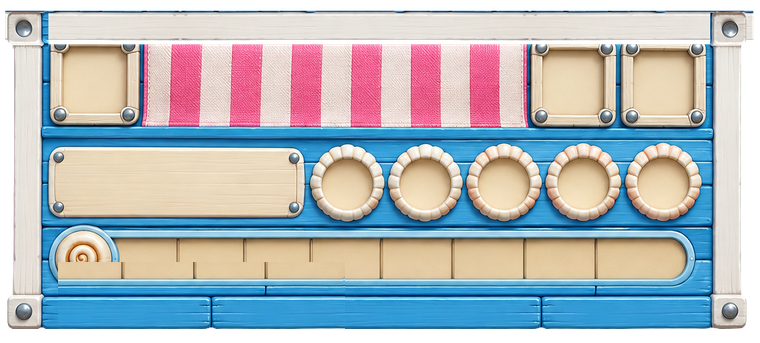
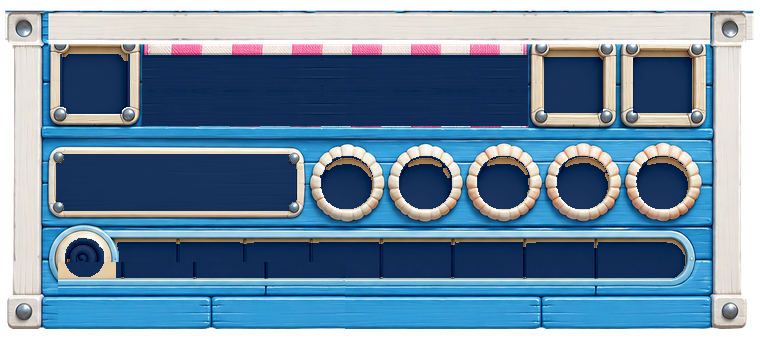
3.a Beach: navy scoreboard panels so the text reads, slimmer driftwood stumps
Claude-Session: https://claude.ai/code/session_01EnXvJ6P6HcGRxjBSnYPdAU

diff --git a/art/grounds/beach/prep_board.py b/art/grounds/beach/prep_board.py
@@ -28,3 +28,36 @@ O[y1:,x1:x2]=O[y1:,x1+330:x2+330]
 P=Image.fromarray(pc.astype(np.uint8)); P=P.crop(P.getbbox()); P=P.resize((round(P.width*.72),round(P.height*.72)),Image.LANCZOS)
 Ob=Image.fromarray(O.clip(0,255).astype(np.uint8)); Ob.save('../../ui/hud_lock/orig/beach_orig.webp',lossless=True)  # shells left off: after the lock fit the energy bar covers them
 print(o.size, s.size, P.size)
+
+# ---- legibility (Joe, Nov 2: "the scoreboard makes the text not legible"): the game writes white/pale text, so every text panel
+# goes deep navy (own shading kept). Chase panel: the pink deckchair stripes become a navy plank panel with a thin striped valance on top.
+import numpy as np
+O=np.array(Image.open('../../ui/hud_lock/orig/beach_orig.webp').convert('RGBA')).astype(np.float32)
+lab=cv2.cvtColor(O[...,:3].clip(0,255).astype(np.uint8),cv2.COLOR_RGB2LAB).astype(np.float32)
+NAVY=cv2.cvtColor(np.uint8([[[16,44,86]]]),cv2.COLOR_RGB2LAB)[0,0].astype(np.float32)
+def navy(mask):
+  L=lab[...,0]; m=mask
+  out=lab.copy(); mu=L[m].mean() if m.any() else 0
+  out[...,0]=np.where(m,NAVY[0]+(L-mu)*0.45,L); out[...,1]=np.where(m,NAVY[1],lab[...,1]); out[...,2]=np.where(m,NAVY[2],lab[...,2])
+  return out
+H0=O.shape[0]; yy,xx=np.mgrid[:H0,:760]
+cream=(lab[...,0]>150)&(lab[...,2]>136)
+M=np.zeros((H0,760),bool)
+def rect(x1,y1,x2,y2,inset): M[y1+inset:y2-inset,x1+inset:x2-inset]|=cream[y1+inset:y2-inset,x1+inset:x2-inset]
+rect(49,147,304,218,7);  rect(50,44,140,124,10); rect(112,235,692,282,4)
+for (x1_,y1_,x2_,y2_) in [(531,44,616,126),(620,44,705,126)]:   # wicket slots: whole recess inside the bolted frame
+  sub=(lab[y1_+13:y2_-13,x1_+13:x2_-13,0]>110); M[y1_+13:y2_-13,x1_+13:x2_-13]|=sub
+for sx in (346,425,503,582,662): M|=cream&(np.hypot(xx-sx,yy-182)<27)
+M|=cream&(np.hypot(xx-84,yy-257)<20)   # energy icon: the snail shell stays, its cream backing goes navy
+M=cv2.morphologyEx(M.astype(np.uint8),cv2.MORPH_CLOSE,np.ones((3,3),np.uint8)).astype(bool)
+lab=navy(M)
+# chase panel: navy planks from the board's own blue plank texture, valance of the original stripes along the top
+x1,y1,x2,y2=142,44,528,126; v=11
+pl=O[300:318,350:530,:3]; pl=np.concatenate([pl,pl[::-1]]*6,0); pl=np.concatenate([pl,pl[:,::-1]]*3,1)[:y2-y1-v,:x2-x1]
+pll=cv2.cvtColor(pl.clip(0,255).astype(np.uint8),cv2.COLOR_RGB2LAB).astype(np.float32); mu=pll[...,0].mean()
+pll[...,0]=NAVY[0]+(pll[...,0]-mu)*0.5; pll[...,1]=NAVY[1]; pll[...,2]=NAVY[2]
+lab[y1+v:y2,x1:x2]=pll
+for yy_ in range(y1+v-2,y1+v+3): lab[yy_,x1:x2,0]*=0.8   # small shadow line under the valance
+O[...,:3]=cv2.cvtColor(lab.clip(0,255).astype(np.uint8),cv2.COLOR_LAB2RGB)
+Image.fromarray(O.clip(0,255).astype(np.uint8)).save('../../ui/hud_lock/orig/beach_orig.webp',lossless=True)
+print('navy panels done', M.sum())

diff --git a/art/grounds/beach/cut.py b/art/grounds/beach/cut.py
@@ -35,7 +35,7 @@ ct,cb=crease(110,220),crease(740,860); print('pitch top',top,'creases',ct,cb,'si
 (l1,r1),(l2,r2)=edges(ct),edges(cb); quad=np.float32([[l1,ct],[r1,ct],[r2,cb],[l2,cb]]); Wr,Hr=200,523
 Mx=cv2.getPerspectiveTransform(quad,np.float32([[0,0],[Wr,0],[Wr,Hr],[0,Hr]]))
 Image.fromarray(cv2.warpPerspective(np.ascontiguousarray(src),Mx,(Wr,Hr),flags=cv2.INTER_CUBIC)).save(D+'pitch_rect.webp',quality=92)
-st=biggest_in(P,(510,90,620,460),'stump'); st.resize((52,360),Image.LANCZOS).save(D+'stump.webp',quality=92)
+st=biggest_in(P,(510,90,620,460),'stump'); c=Image.new('RGBA',(52,360)); c.alpha_composite(st.resize((26,360),Image.LANCZOS),(13,0)); c.save(D+'stump.webp',quality=92)   # slim, like Coliseum (26 of 52 px)
 bl=biggest_in(P,(700,230,915,345),'bail',save=False); bl.resize((212,round(bl.height*212/bl.width)),Image.LANCZOS).save(D+'bail.webp',quality=92)
 biggest_in(P,(975,160,1185,370),'ball',208); biggest_in(P,(1245,150,1500,400),'ring',120)
 biggest_in(P,(430,520,700,850),'x_gull_up',180); biggest_in(P,(690,670,950,905),'x_gull_dn',180)

diff --git a/art/ui/HANDOVER.md b/art/ui/HANDOVER.md
@@ -703,3 +703,4 @@ After that: sprint 7 app-store build on Joe's Mac (RevenueCat with store-confirm
 - Pitch came out dark brown and crisp → tone_pitch.py pulls it to the field's sand (Lab), a shade darker, softer, dusty ends.
 - Capture: serve the repo over http (file:// blocks the word images by CORS) and set flickyWelcomeChest=1 so the welcome bag doesn't open over the match.
 
+- 3.a scoreboard legibility (Joe, Nov 2: text not legible): the game writes white/pale text, so every text panel must be DARK. prep_board.py turns all panels navy (own shading kept) and swaps the pink deckchair stripes for a navy plank panel with a thin striped valance on top. Driftwood stump slimmed to Coliseum's width (26 of 52 px) — fat stumps made the HUD wicket icon a solid block. **Rule: paint scoreboard panels dark; say so in the HUD prompt.**
